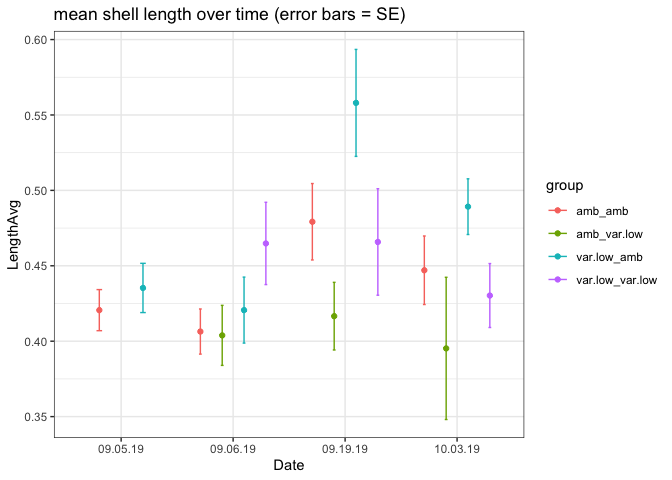
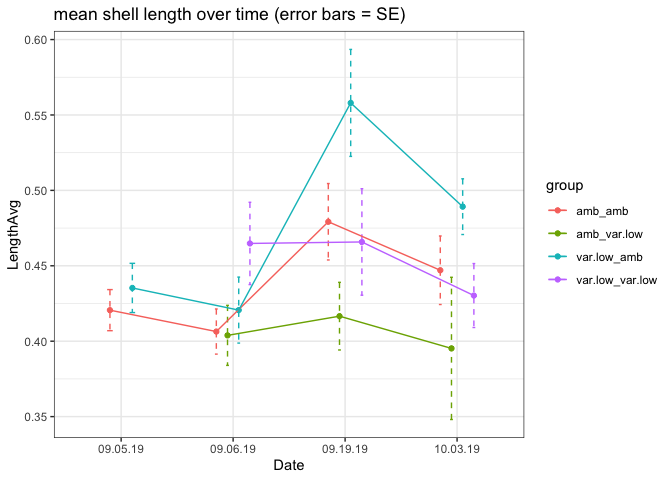
plotting shell length and wet weight over 28 days

diff --git a/amb_v_varlowpH_juvis/analyses/Respirometry/Resp.Calculations.ST.md b/amb_v_varlowpH_juvis/analyses/Respirometry/Resp.Calculations.ST.md
@@ -399,10 +399,10 @@ test_mean <- summarize(test, LengthAvg = mean(Length), LengthSD = sd(Length), Le
 test_mean$group <- paste(test_mean$Parental.history, test_mean$Sw.Condition, sep = "_")
 
 #set dodge position
-pd <- position_dodge(0.78)
+pd <- position_dodge(0.4)
 
 #Plot shell length average over time as dots with error bars
-ggplot(test_mean, aes(x = Date, y = LengthAvg, color = group)) + geom_point(position = pd) + geom_errorbar(data = test_mean, aes(ymin = LengthAvg-LengthSE, ymax = LengthAvg+LengthSE), width = 0.1, position = pd) + theme_bw()+ ggtitle("mean shell length over time (error bars = SE)")
+ggplot(test_mean, aes(x = Date, y = LengthAvg, color = group, group = group)) + geom_point(position = pd) + geom_errorbar(data = test_mean, aes(ymin = LengthAvg-LengthSE, ymax = LengthAvg+LengthSE), width = 0.1, position = pd, linetype = "dashed") + geom_line(position = pd) + theme_bw()+ ggtitle("mean shell length over time (error bars = SE)")
 ```
 
 ![](Resp.Calculations.ST_files/figure-markdown_github/unnamed-chunk-23-3.png)
@@ -415,7 +415,7 @@ test_Wtmean <- summarize(test, WtAvg = mean(Wet.weight.g, na.rm = TRUE), WtSD = 
 test_Wtmean$group <- paste(test_Wtmean$Parental.history, test_Wtmean$Sw.Condition, sep = "_")
 
 #Plot wet weight average over time as dots with error bars
-ggplot(test_Wtmean, aes(x = Date, y = WtAvg, color = group)) + geom_point(position = pd) + geom_errorbar(data = test_Wtmean, aes(ymin = WtAvg-WtSE, ymax = WtAvg+WtSE), width = 0.1, position = pd) + theme_bw() + ggtitle("mean wet weight over time (error bars = SE)")
+ggplot(test_Wtmean, aes(x = Date, y = WtAvg, color = group, group = group)) + geom_point(position = pd) + geom_errorbar(data = test_Wtmean, aes(ymin = WtAvg-WtSE, ymax = WtAvg+WtSE), width = 0.1, position = pd, linetype = "dashed") + geom_line(position = pd) + theme_bw() + ggtitle("mean wet weight over time (error bars = SE)")
 ```
 
 ![](Resp.Calculations.ST_files/figure-markdown_github/unnamed-chunk-23-4.png)
